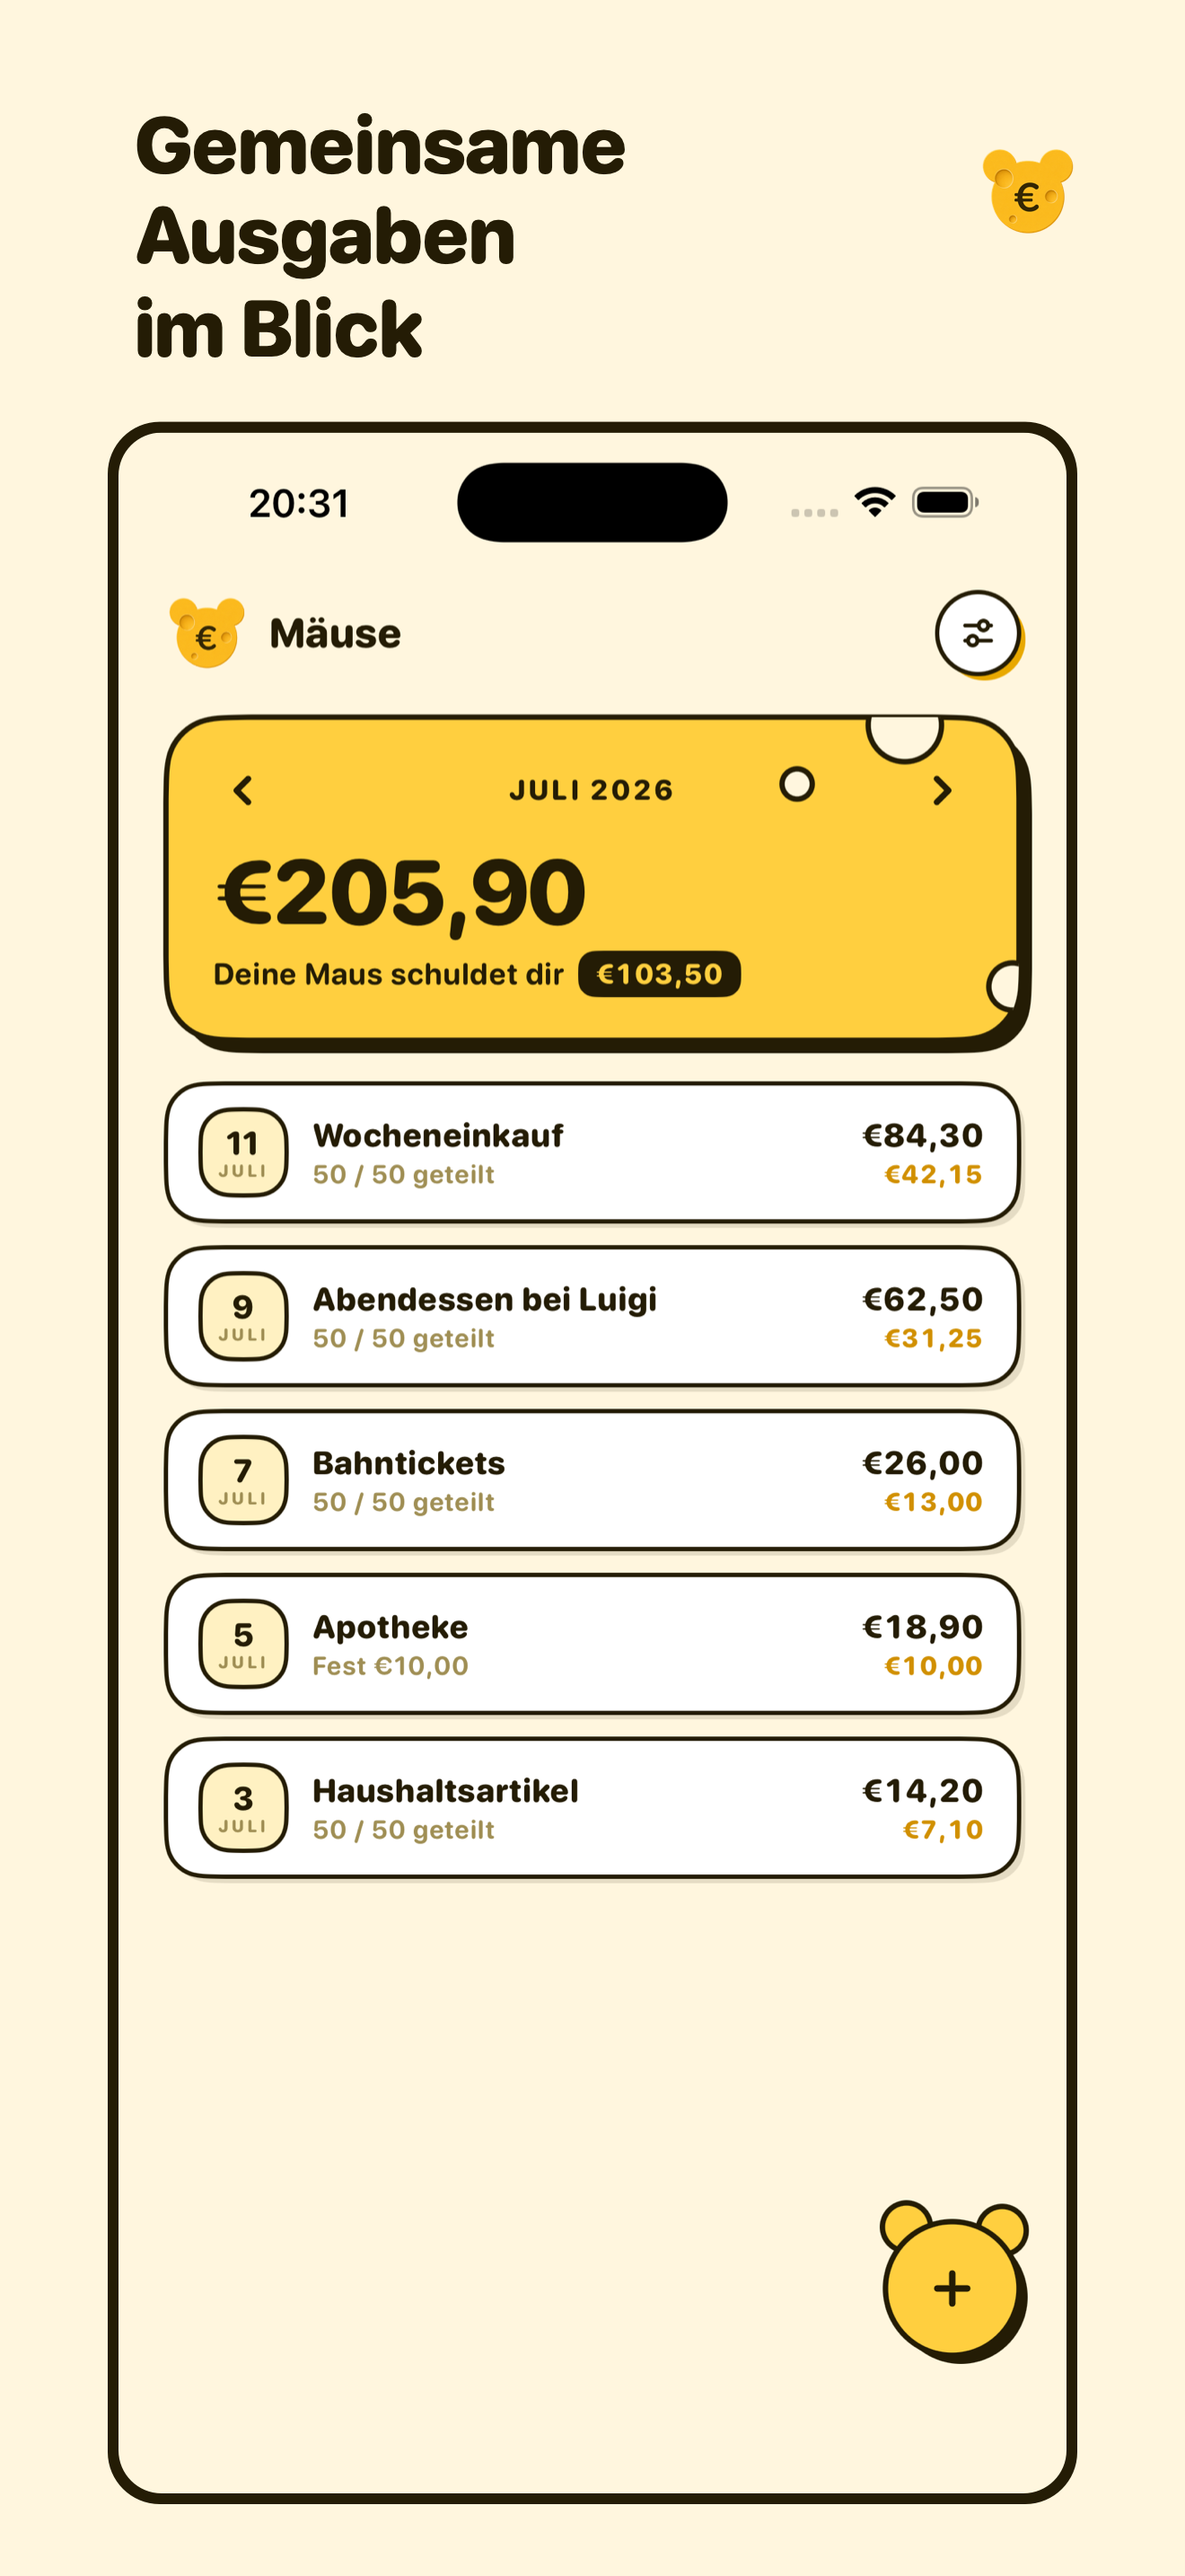
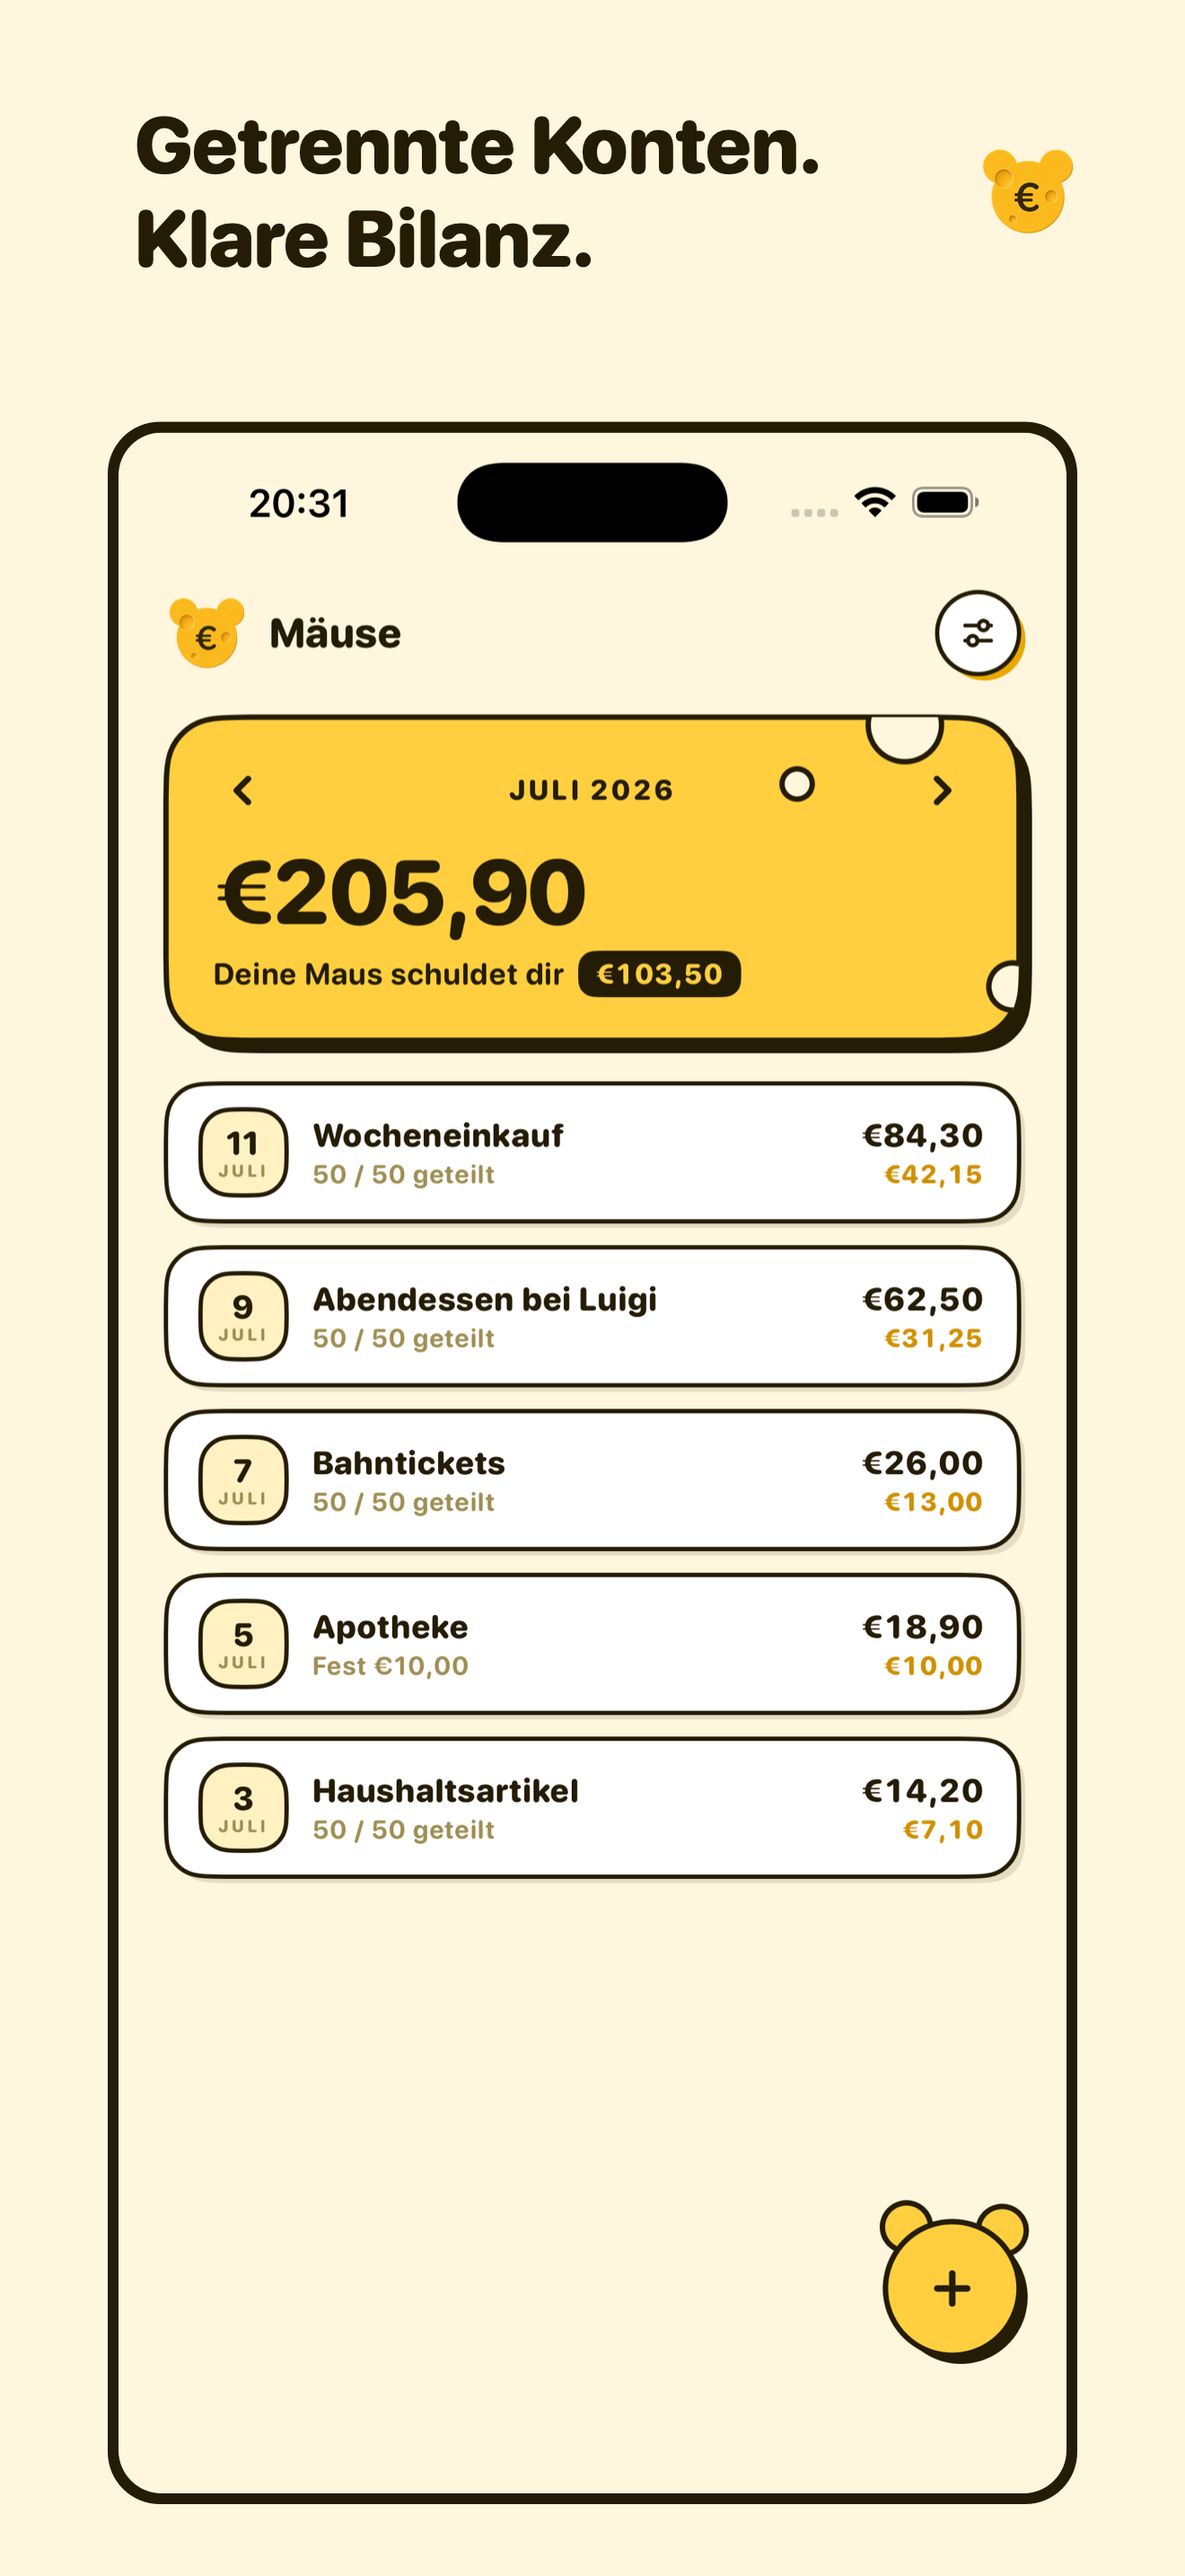
Add widget App Store screenshot as scene 05
New bilingual scene showing the medium Mäuse widget on the Home Screen,
so the store page demonstrates that a new expense starts without opening
the app -- the headline 1.3.0 capability the existing four scenes predate.

Captured on iPhone 17 Pro Max at the native 6.9-inch 1320x2868 size, with
the status bar overridden to match the rest of the set. Framed through
scripts/frame-app-store-screenshots.swift so the cream canvas, dark device
frame, SF Rounded caption, and brand mark match exactly.

Captions: "Capture it before you forget." / "Erfassen, bevor es vergessen
ist.", echoing the section headers in the new store description. These are
my wording -- the Notion copy specified only four captions.

Regenerates all ten framed images, which also picks up the new marketing
captions for scenes 01-04; those framed files were stale against the
script until now.

Also restores the app-name explanation to both descriptions, now placed
directly after the opening line instead of at the very end where the
previous copy had it.

The raw captures for 01-04 still predate widgets and Control Center, so
the checklist keeps re-capturing them as an open item.

Changed region(s): [[0.0932, 0.031, 0.497, 0.1552], [0.528, 0.031, 0.6833, 0.0931]]

diff --git a/scripts/frame-app-store-screenshots.swift b/scripts/frame-app-store-screenshots.swift
@@ -14,10 +14,12 @@ let specs = [
     ScreenshotSpec(language: "en", sourceName: "02-editor", caption: "Add an expense\nin seconds."),
     ScreenshotSpec(language: "en", sourceName: "03-voice", caption: "Just say it. Review it.\nSave it."),
     ScreenshotSpec(language: "en", sourceName: "04-settings", caption: "Your data stays\non your iPhone."),
+    ScreenshotSpec(language: "en", sourceName: "05-widgets", caption: "Capture it before\nyou forget."),
     ScreenshotSpec(language: "de", sourceName: "01-dashboard", caption: "Getrennte Konten.\nKlare Bilanz."),
     ScreenshotSpec(language: "de", sourceName: "02-editor", caption: "In Sekunden eine\nAusgabe erfassen."),
     ScreenshotSpec(language: "de", sourceName: "03-voice", caption: "Sagen. Prüfen.\nSpeichern."),
-    ScreenshotSpec(language: "de", sourceName: "04-settings", caption: "Eure Daten bleiben\nauf dem iPhone.")
+    ScreenshotSpec(language: "de", sourceName: "04-settings", caption: "Eure Daten bleiben\nauf dem iPhone."),
+    ScreenshotSpec(language: "de", sourceName: "05-widgets", caption: "Erfassen, bevor\nes vergessen ist.")
 ]
 
 let fileManager = FileManager.default

diff --git a/AppStore/submission-checklist.md b/AppStore/submission-checklist.md
@@ -34,10 +34,11 @@ numbers, device QA — was reset for 1.3.0 and needs re-verification before subm
 - [ ] German localization is re-entered from `metadata-de.md` (same 1.3.0 update).
 - [x] Support, marketing, and privacy URLs are entered.
 - [x] Copyright is `2026 Michael Diestelberg`.
-- [ ] Screenshots are refreshed for 1.3.0 — the current set (`01-dashboard`, `02-editor`, `03-voice`, `04-settings`) predates widgets, Lock Screen, and Control Center capture and shows none of the headline features.
-- [ ] Framed screenshots are regenerated with `scripts/frame-app-store-screenshots.swift` — the captions in `AppStore/screenshots/framed/` are still the pre-1.3.0 wording, since the script's caption text changed with the new marketing copy.
-- [ ] Four English 6.9-inch screenshots are uploaded in the planned order.
-- [ ] Four German 6.9-inch screenshots are uploaded in the planned order.
+- [x] A fifth scene, `05-widgets`, was captured on iPhone 17 Pro Max showing the Home Screen widget, and framed in both languages.
+- [ ] Scenes `01-dashboard`, `02-editor`, `03-voice`, and `04-settings` are re-captured for 1.3.0 — those four still predate widgets, Lock Screen, and Control Center capture.
+- [x] Framed screenshots regenerated with `scripts/frame-app-store-screenshots.swift`; all ten carry the new marketing captions.
+- [ ] Five English 6.9-inch screenshots are uploaded in the planned order.
+- [ ] Five German 6.9-inch screenshots are uploaded in the planned order.
 - [ ] Prepared screenshots contain no real personal data or secret API key.
 - [ ] `AppStore/release-notes.md` 1.3.0 “What’s New” text is pasted for English (U.S.) and German.
 - [ ] The 1.3.0 long form is mirrored on `https://xn--muse-loa.app/changelog.html`.

diff --git a/AppStore/metadata-de.md b/AppStore/metadata-de.md
@@ -16,6 +16,8 @@ Getrennte Konten, gemeinsame Kosten: Ausgaben direkt vom Sperrbildschirm diktier
 
 Getrennte Konten. Gemeinsames Leben. Mäuse ist der Ausgaben-Tracker für Paare, die Alltagskosten teilen möchten - ohne gemeinsames Bankkonto.
 
+Der Name ist Programm: „Mäuse“ ist umgangssprachlich für Geld.
+
 Erfasst, wer was bezahlt hat, teilt die Kosten fair auf und wisst am Monatsende genau, wer wem wie viel schuldet.
 
 FÜR ZWEI GEMACHT
@@ -55,6 +57,7 @@ teilen,rechnungen,budget,gemeinsam,partner,haushalt,geld,sprache,widget,abrechnu
 2. In Sekunden eine Ausgabe erfassen.
 3. Sagen. Prüfen. Speichern.
 4. Eure Daten bleiben auf dem iPhone.
+5. Erfassen, bevor es vergessen ist.
 
 ## Versionshinweise für den ersten Store-Release
 

diff --git a/AppStore/metadata-en.md b/AppStore/metadata-en.md
@@ -16,6 +16,8 @@ Keep separate accounts without keeping score. Dictate shared expenses from your 
 
 Separate accounts. Shared life. Mäuse is the expense tracker built for couples who want to share everyday costs without sharing a bank account.
 
+The name Mäuse is German slang for "money" - a playful fit for keeping shared finances in balance.
+
 Record what you paid, choose a fair split, and always know what needs to be settled at the end of the month.
 
 BUILT FOR TWO
@@ -55,6 +57,7 @@ shared,bills,split,budget,partner,household,money,voice,widget,reconcile,settle,
 2. Add an expense in seconds.
 3. Just say it. Review it. Save it.
 4. Your data stays on your iPhone.
+5. Capture it before you forget.
 
 ## First-version release notes
 

diff --git a/AppStore/screenshots/README.md b/AppStore/screenshots/README.md
@@ -24,6 +24,11 @@ Capture real app UI from the iPhone 17 Pro Max simulator in portrait orientation
    - German caption: Eure Daten bleiben auf dem iPhone.
    - Settings showing verified Voice Mode, consent status, backup controls, and privacy/support access. The visible API suffix is synthetic.
 
+5. `05-widgets`
+   - English caption: Capture it before you forget.
+   - German caption: Erfassen, bevor es vergessen ist.
+   - Home Screen with the medium Mäuse widget in place, showing that a new expense starts without opening the app first. Capture on a stock Home Screen page; keep the widget in the top-left slot so it reads first.
+
 ## Rules
 
 - Use only synthetic sample expenses.
